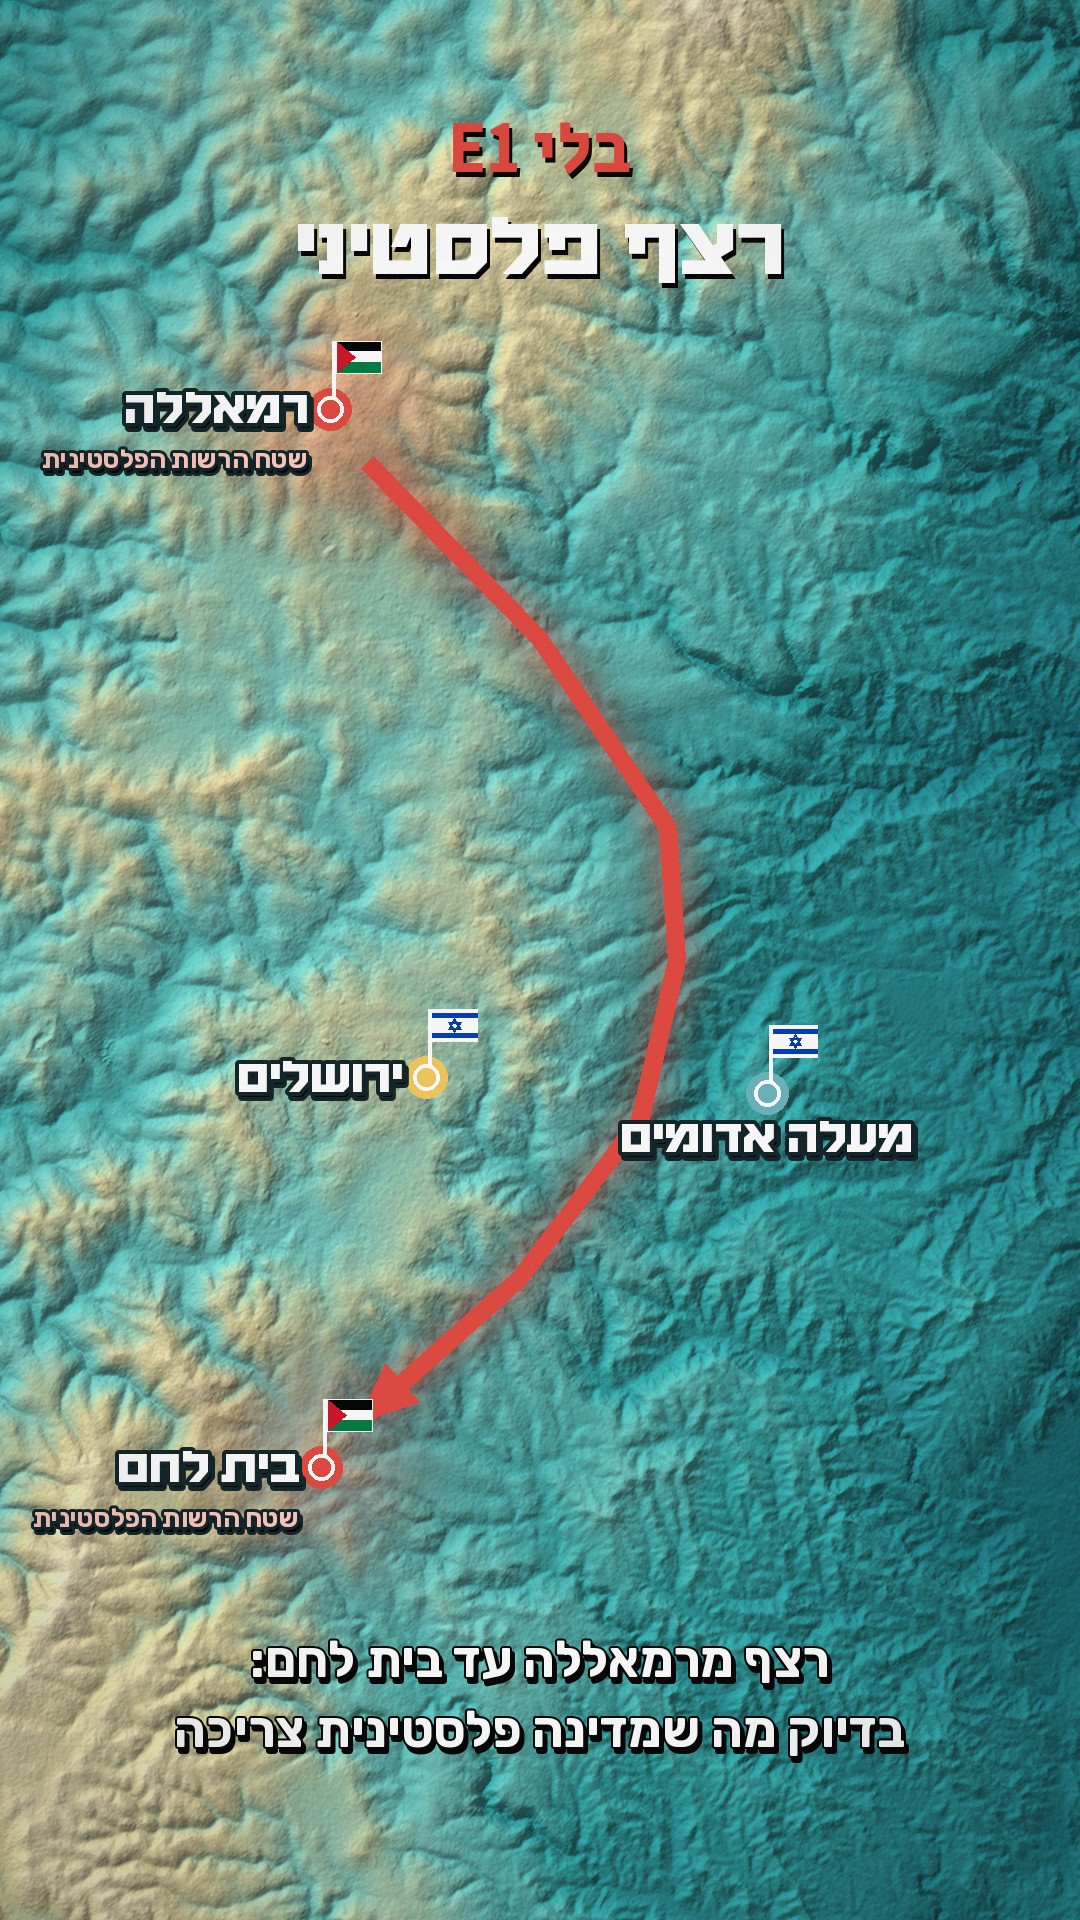
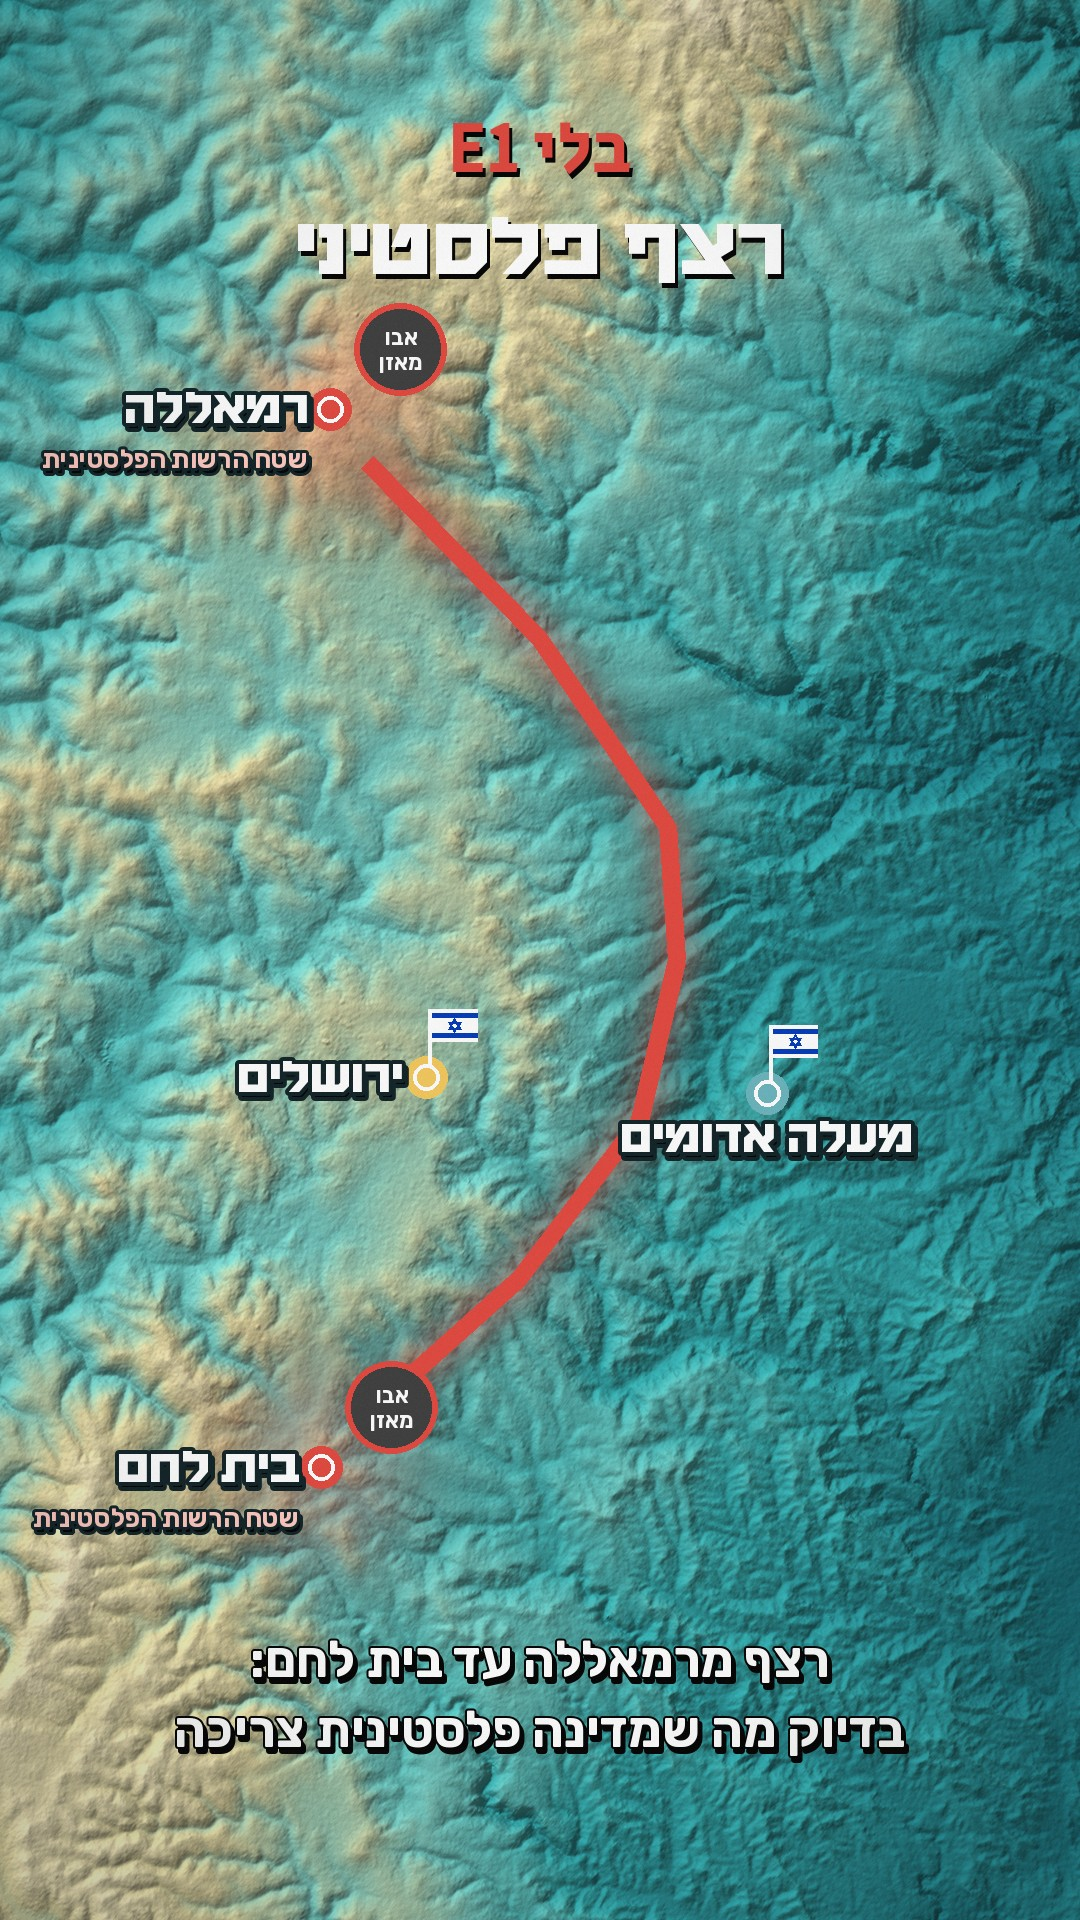
E1 explainer: drop PA flag, Abbas badge placeholder
Claude-Session: https://claude.ai/code/session_01RS3QK6pAd3YhyAuXZSJjH1

Changed region(s): [[0.275, 0.6875, 0.4278, 0.7812], [0.3056, 0.1562, 0.4278, 0.2188]]

diff --git a/content-kit/hatzionut-hadatit/2026-11-reel-e1-explainer/sample4.py b/content-kit/hatzionut-hadatit/2026-11-reel-e1-explainer/sample4.py
@@ -20,6 +20,15 @@ def paflag(d, x, y, s=1.0):
     d.line((x, y, x, y - 70 * s), fill=WHITE, width=4); fx, fy = x + 2, y - 70 * s; w, h = 56 * s, 40 * s
     d.rectangle((fx, fy, fx + w, fy + h / 3), fill=(0, 0, 0)); d.rectangle((fx, fy + h / 3, fx + w, fy + 2 * h / 3), fill=WHITE); d.rectangle((fx, fy + 2 * h / 3, fx + w, fy + h), fill=(0, 122, 61))
     d.polygon([(fx, fy), (fx + w * .42, fy + h / 2), (fx, fy + h)], fill=(206, 17, 38)); d.rectangle((fx, fy, fx + w, fy + h), outline=(255, 255, 255), width=1)
+ABBAS = HERE + '/src/abbas.jpg'
+def abbas_badge(d, x, y, r=46):
+    cx, cy = x + 70, y - 60
+    if os.path.exists(ABBAS):
+        ph = ImageOps.fit(Image.open(ABBAS).convert('RGB'), (2 * r, 2 * r), Image.LANCZOS, centering=(.5, .3)); m = Image.new('L', (2 * r, 2 * r), 0); ImageDraw.Draw(m).ellipse((0, 0, 2 * r, 2 * r), fill=255)
+        d._image.paste(ph, (int(cx - r), int(cy - r)), m)
+    else:
+        d.ellipse((cx - r, cy - r, cx + r, cy + r), fill=(60, 60, 60)); T(d, (cx, cy), 'אבו\nמאזן', F(RUB, 22), sh=False, align='center')
+    d.ellipse((cx - r, cy - r, cx + r, cy + r), outline=RED, width=6)
 def pa_zone(im, v, lat, lon, rad_px):
     x, y = v.xy(lat, lon); lay = Image.new('RGBA', (W, H)); ld = ImageDraw.Draw(lay)
     ld.ellipse((x - rad_px, y - rad_px, x + rad_px, y + rad_px), fill=RED + (70,)); lay = lay.filter(ImageFilter.GaussianBlur(rad_px * .35)); im.alpha_composite(lay)
@@ -49,7 +58,7 @@ d.polygon([(xb + 12 * math.cos(a), yb + 12 * math.sin(a)), (xb - L * math.cos(a 
 def places(d, v):
     for n, c, s_ in [('רמאללה', RED, 'l'), ('בית לחם', RED, 'l'), ('ירושלים', GOLD, 'l'), ('מעלה אדומים', LT, 'b')]:
         x, y = pin(d, v, *PL[n], c, 13); label(d, v, *PL[n], n, s_, 46, dot=False)
-        if c == RED: paflag(d, x + 4, y - 12, .8)
+        if c == RED: abbas_badge(d, x, y)
         else: flag(d, x + 4, y - 12, .8)
     for n in ('רמאללה', 'בית לחם'):
         x, y = v.xy(*PL[n]); T(d, (x - 24, y + 50), 'שטח הרשות הפלסטינית', F(RUB, 26), fill=(255, 200, 190), anchor='rm', stroke_width=3, stroke_fill=NIGHT)
